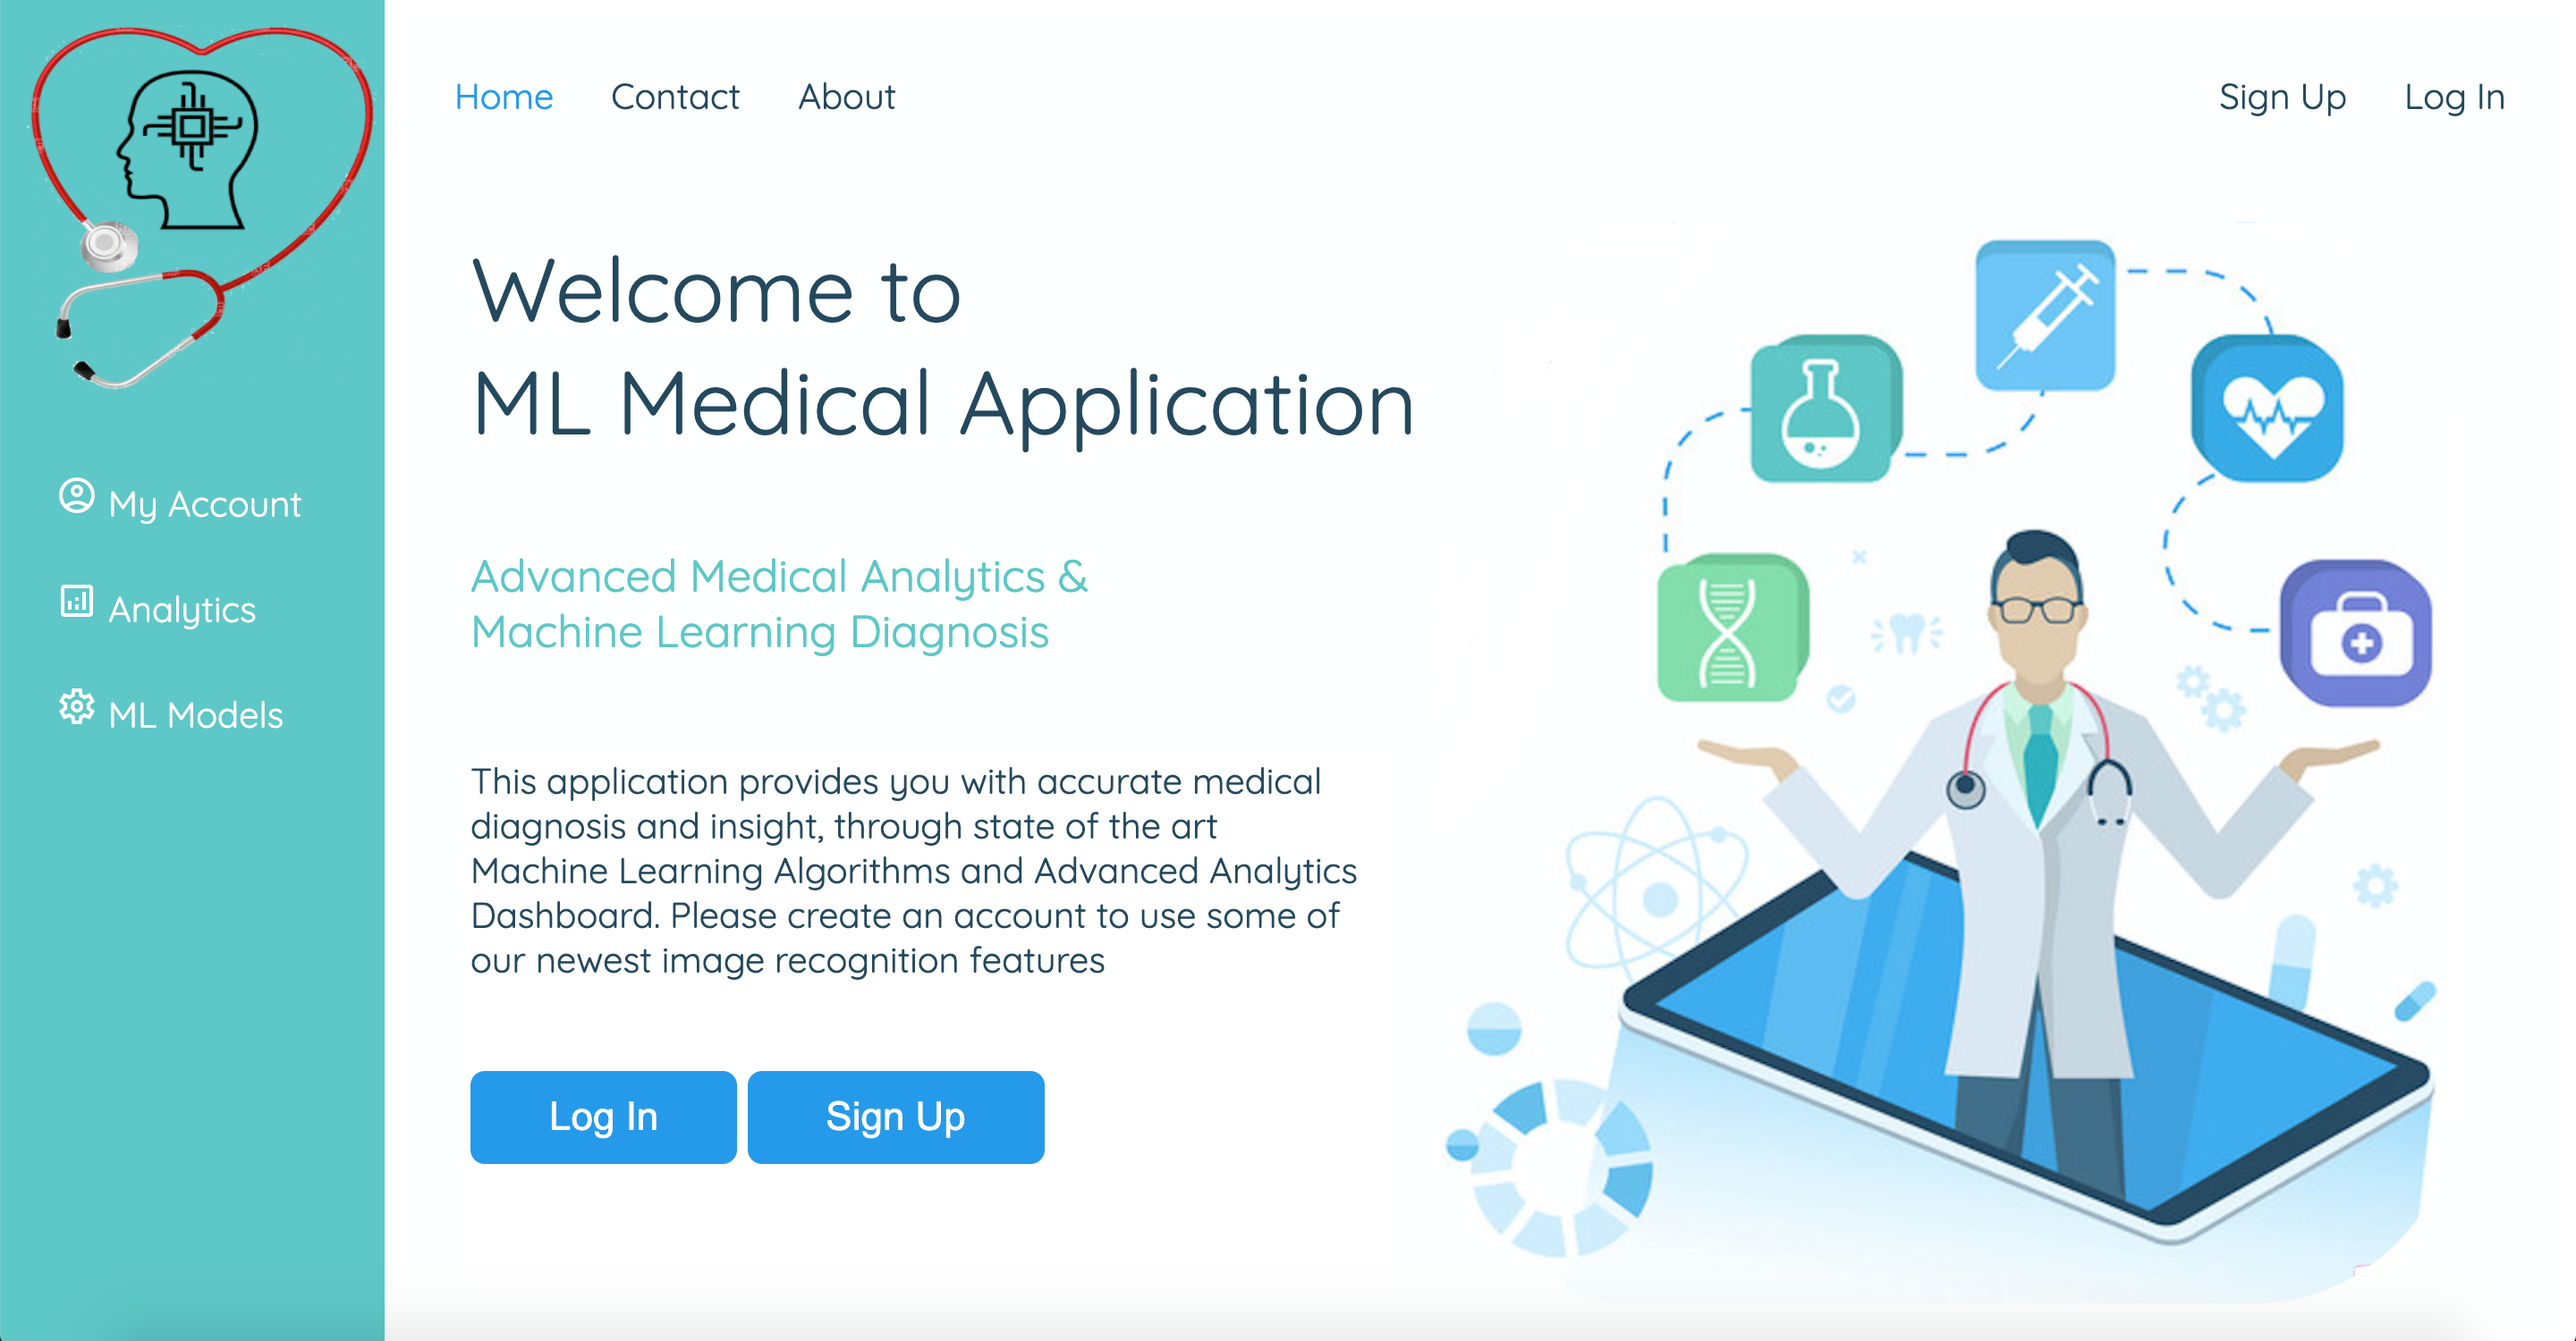
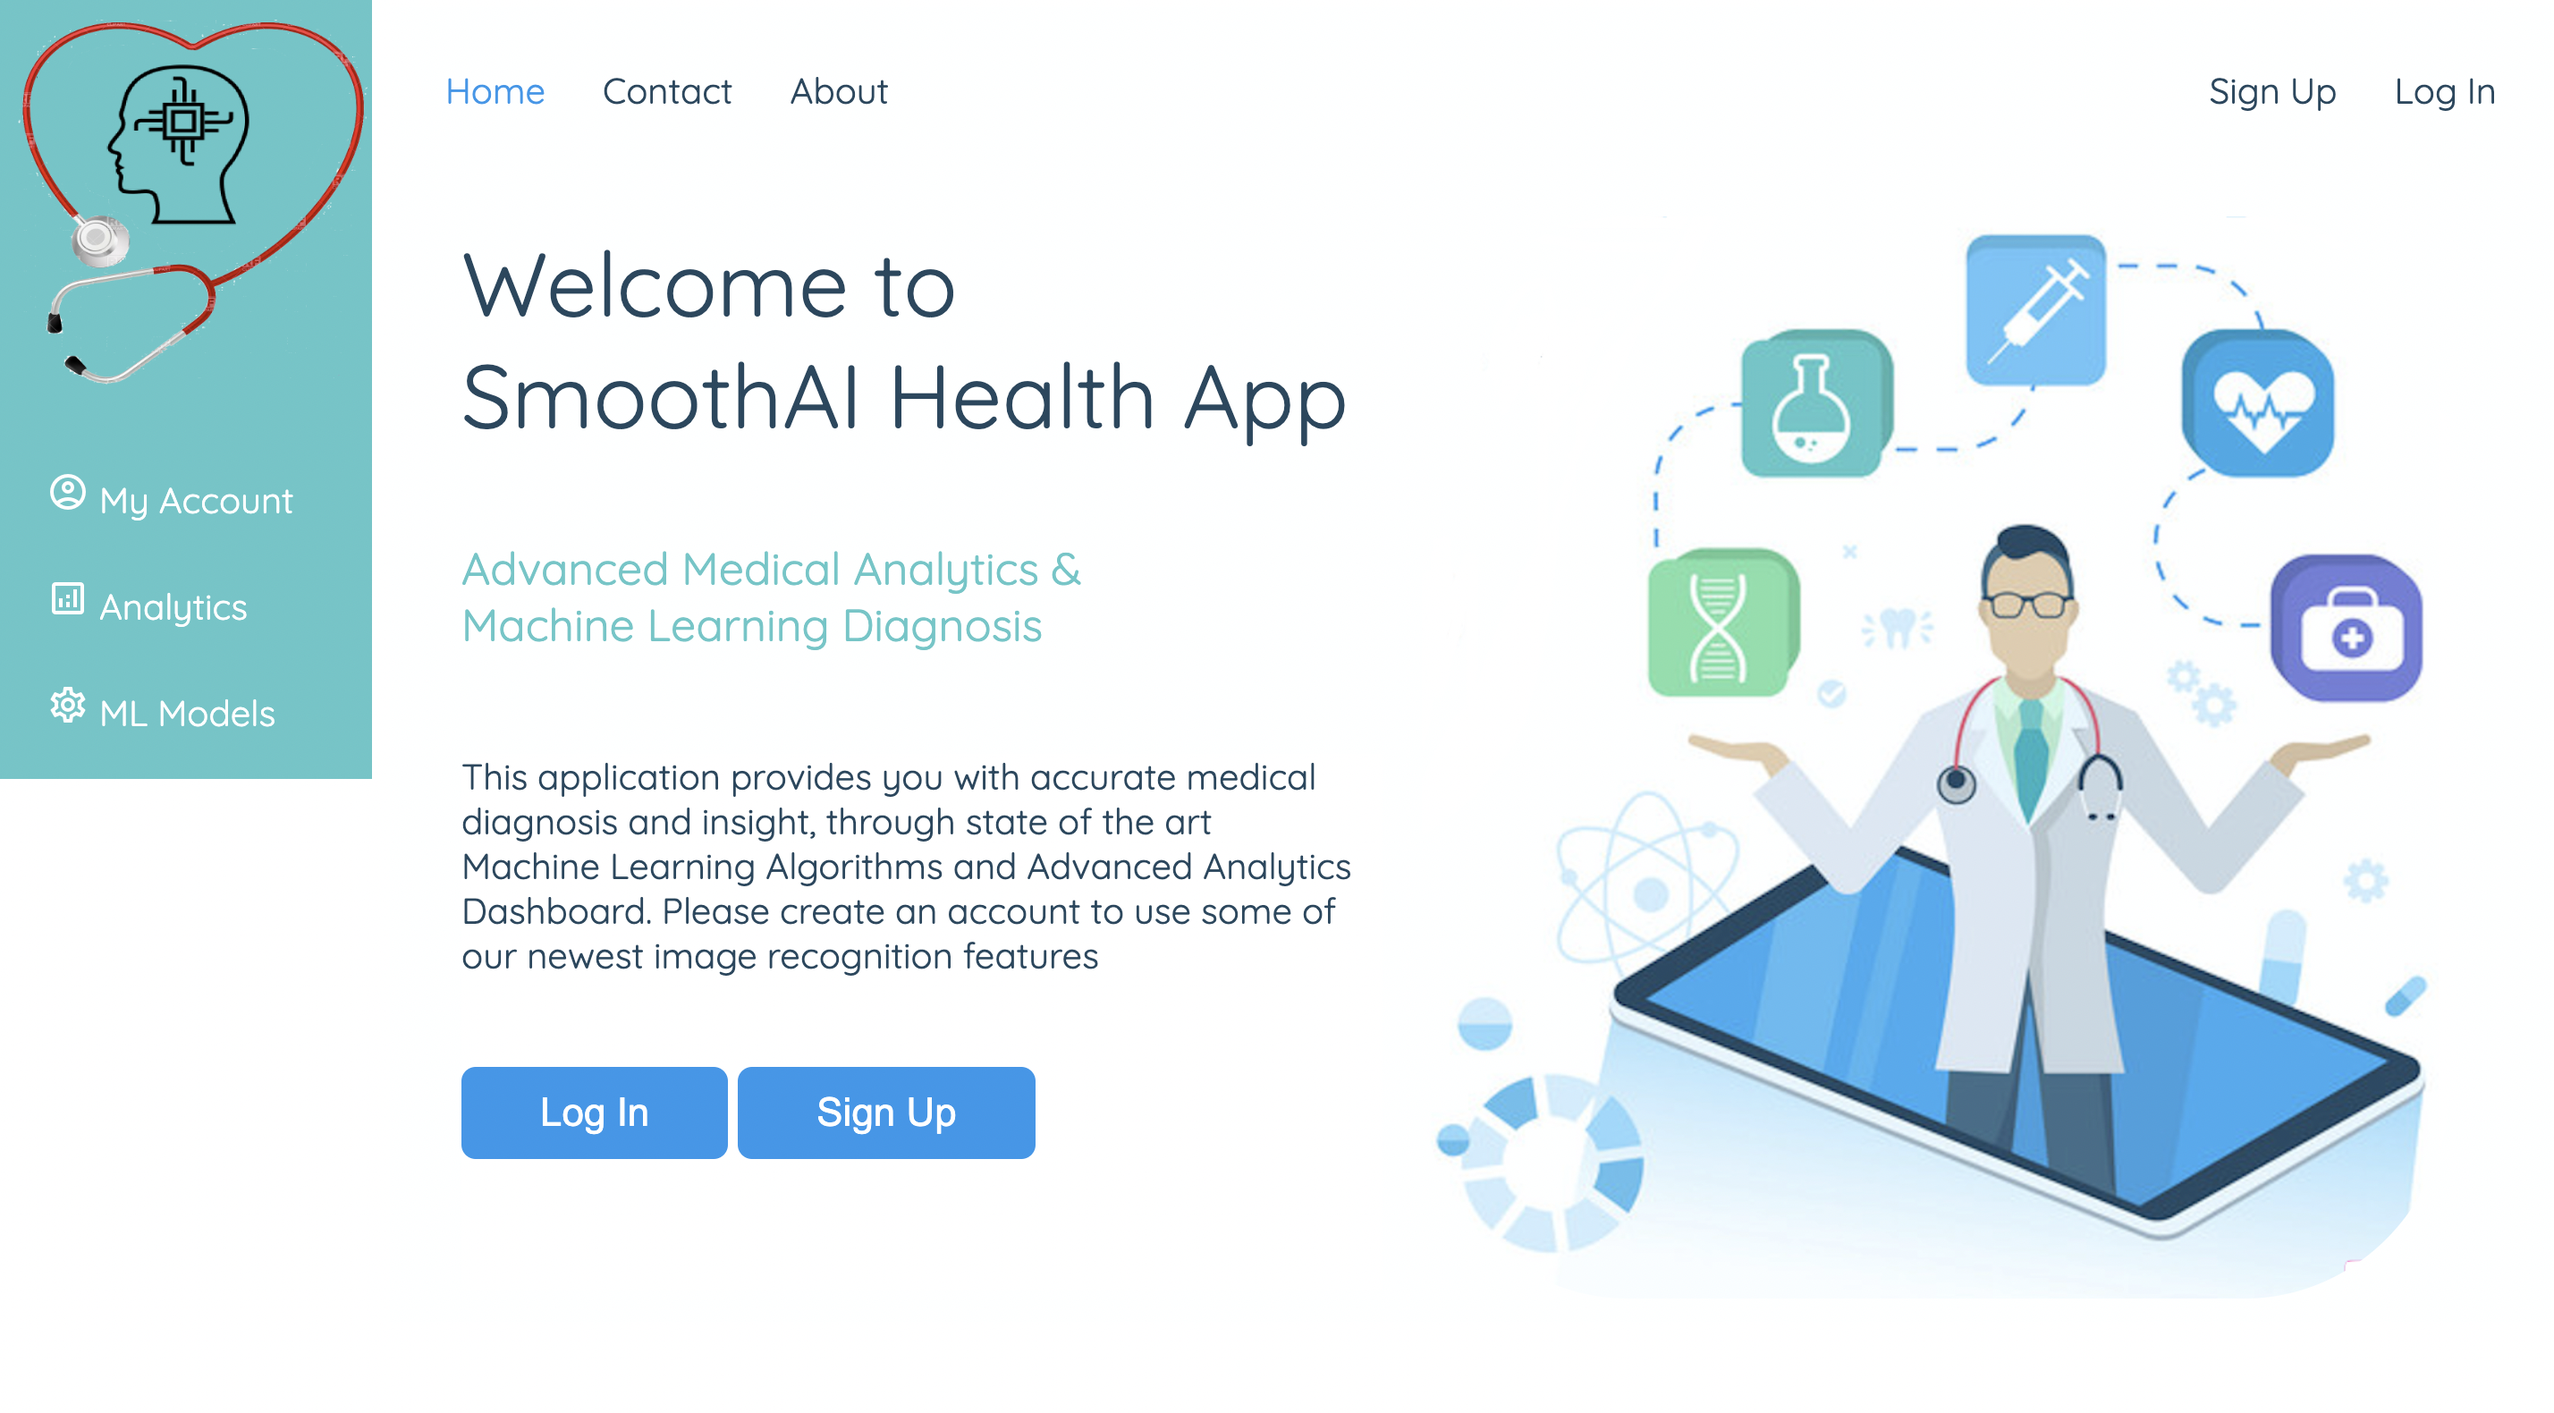
Fixed issue with CSS and changed README to SmoothAI page

diff --git a/app/templates/index.html b/app/templates/index.html
@@ -1,8 +1,8 @@
 
 <!DOCTYPE html>
 <html>
-    <link rel="stylesheet" type="text/css" href="{{ url_for('static',filename='css/index.css')}}">
-    <link rel="stylesheet" type="text/css" href="{{ url_for('static',filename='css/tooltip.css')}}">
+    <link rel="stylesheet" type="text/css" href="../static/css/index.css">
+    <link rel="stylesheet" type="text/css" href="../static/css/tooltip.css">
     <link href='https://fonts.googleapis.com/css?family=Quicksand' rel='stylesheet'>
     <link rel="stylesheet" href="https://cdnjs.cloudflare.com/ajax/libs/font-awesome/4.7.0/css/font-awesome.min.css">
     <link href='https://fonts.googleapis.com/css?family=Roboto' rel='stylesheet'>
@@ -18,7 +18,7 @@
     <div class="sidenav">
 
         <div class="img">
-            <img  class="medium" width="198" height="205" src="{{ url_for('static',filename='img/newlogo4.png')}}" alt="My Pic">
+            <img  class="medium" width="198" height="205" src="../static/img/newlogo4.png" alt="My Pic">
         </div>
 
         <style>
@@ -158,7 +158,7 @@
                 <section class="container">
                     <p class="title">
                       <span class="title">Welcome to </br>
-                    ML Medical Application </span>
+                    SmoothAI Health App </span>
                     </p>
                   </section>
 
@@ -176,7 +176,7 @@
                 <a  href="register" > <button class="mainbutton">Sign Up</button></a> 
                 </div>
                 <div class="logo">
-                    <img  class="medium" width="575" height="605" src="{{ url_for('static',filename='img/logo.png')}}" alt="My Pic">
+                    <img  class="medium" width="575" height="605" src="../static/img/logo.png" alt="My Pic">
                 </div>
             <!-- Content End -->
 

diff --git a/app/static/css/index.css b/app/static/css/index.css
@@ -1,7 +1,7 @@
 
   .sidenav {
-    height: 100%; /* Full-height: remove this if you want "auto" height */
-    width: 200px; /* Set the width of the sidebar */
+    height: auto; /* Full-height: remove this if you want "auto" height */
+    width: auto; /* Set the width of the sidebar */
     position: fixed; /* Fixed Sidebar (stay in place on scroll) */
     z-index: 1; /* Stay on top */
     top: 0; /* Stay at the top */

diff --git a/app/templates/user.html b/app/templates/user.html
@@ -93,7 +93,7 @@
             <div class="content">
                 <section class="container">
                     <p class="title">
-                      <span class="title">Welcome {{user_name}}</br>SmoothHealth AI Medical App</span>
+                      <span class="title">Welcome {{user_name}}</br>Smooth Health AI Medical App</span>
                     </p>
                   </section>
 
